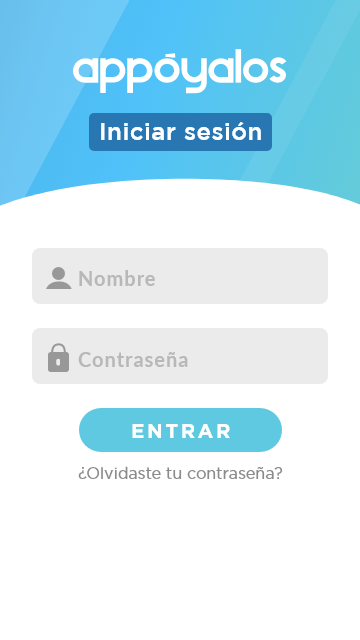
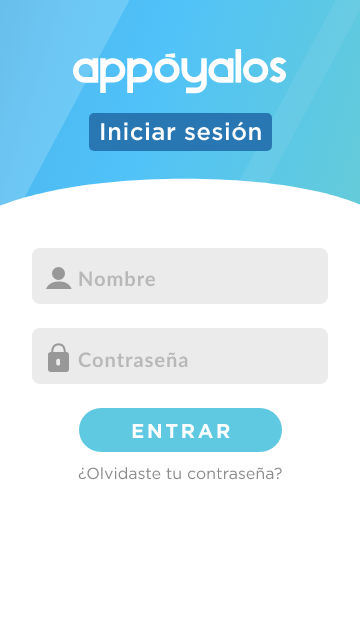
update

diff --git a/index.html b/index.html
@@ -9,6 +9,7 @@
     <link rel="stylesheet" href="css/animate.css">
     <link rel="stylesheet" href="css/bigDesktop.css">
     <link rel="stylesheet" href="css/mobile.css">
+    <link href="https://fonts.googleapis.com/css2?family=Montserrat+Alternates:wght@300&display=swap" rel="stylesheet">
     <link rel="stylesheet" href="https://stackpath.bootstrapcdn.com/bootstrap/4.5.2/css/bootstrap.min.css" integrity="sha384-JcKb8q3iqJ61gNV9KGb8thSsNjpSL0n8PARn9HuZOnIxN0hoP+VmmDGMN5t9UJ0Z" crossorigin="anonymous">
     <script defer src="https://pro.fontawesome.com/releases/v5.10.0/js/all.js" integrity="sha384-G/ZR3ntz68JZrH4pfPJyRbjW+c0+ojii5f+GYiYwldYU69A+Ejat6yIfLSxljXxD" crossorigin="anonymous"></script>
     <script src="js/index.js"></script>
@@ -25,14 +26,12 @@
             </div>
         </header>
         <nav class="nav-container">
-            <a class="nosotros">
-                <i id="we" class="we fas fa-users"></i>
-            </a>
+
             <a href="#meta" class="metas">
                 <i id="goal" class="goal fas fa-bullseye"></i>
             </a>
 
-            <a class="app">
+            <a href="#api" class="app">
                 <i id="appi" class="appi fas fa-mobile-alt"></i>
             </a>
             <a class="contacto">
@@ -49,21 +48,21 @@
                     </ol>
                     <div class="carousel-inner">
                         <div class="carousel-item active">
-                            <img src="media/Móvil Android – 3.png" id="nos_img1" class="d-block w-100" alt="...">
+                            <img src="media/paisajes-de-animales-bebes-oso-500x500.jpg" id="nos_img1" class="d-block w-100" alt="...">
                             <div class="carousel-caption d-none d-md-block">
                                 <h5>First slide label</h5>
                                 <p>Nulla vitae elit libero, a pharetra augue mollis interdum.</p>
                             </div>
                         </div>
                         <div class="carousel-item">
-                            <img src="media/Móvil Android – 9.png" id="nos_img2" class="d-block w-100" alt="...">
+                            <img src="media/Evolution_by_will_yen-500x500.png" id="nos_img2" class="d-block w-100" alt="...">
                             <div class="carousel-caption d-none d-md-block">
                                 <h5>Second slide label</h5>
                                 <p>Lorem ipsum dolor sit amet, consectetur adipiscing elit.</p>
                             </div>
                         </div>
                         <div class="carousel-item">
-                            <img src="media/Móvil Android – 7.png" id="nos_img3" class="d-block w-100" alt="...">
+                            <img src="media/pelican_500.jpg" id="nos_img3" class="d-block w-100" alt="...">
                             <div class="carousel-caption d-none d-md-block">
                                 <h5>Third slide label</h5>
                                 <p>Praesent commodo cursus magna, vel scelerisque nisl consectetur.</p>
@@ -71,7 +70,7 @@
                         </div>
                     </div>
                     <a class="carousel-control-prev" href="#carouselExampleCaptions" role="button" data-slide="prev">
-                        <span class="carousel-control-prev-icon" aria-hidden="true"></span>
+                        <span style="color: blue;" class="carousel-control-prev-icon" aria-hidden="true"></span>
                         <span class="sr-only">Previous</span>
                     </a>
                     <a class="carousel-control-next" href="#carouselExampleCaptions" role="button" data-slide="next">
@@ -104,7 +103,7 @@
                             id felis eu urna luctus gravida.Nullam varius imperdiet augue vitae tinciduntkk.augue vitae tinciduntkk elit.</p>
                     </div>
                     <div class="img3-metas" id="imgMetas">
-                        <img src="media/Móvil Android – 4.png" alt=""><br>
+                        <img src="media/Móvil Android – 1.png" alt=""><br>
                         <a id="icono3">
                             <i class="show fas fa-arrow-down" id="show3"></i><br>
                         </a>
@@ -112,8 +111,40 @@
                             id felis eu urna luctus gravida.Nullam varius imperdiet augue vitae tinciduntkk.augue vitae tinciduntkk elit.</p>
                     </div>
                 </div>
+
             </div>
-            <div class="apliacion-content">
+            <a name="api"></a>
+            <div class="aplicacion-content">
+                <div class="section1">
+                    <div class="img-section1">
+                        <img src="media/Evolution_by_will_yen-500x500.png" alt="">
+                    </div>
+                    <div class="texto-section1">
+                        <h2 class="title" style="color: white;">Proin id felis</h2>
+                        <p style="color: white;">Proin id felis eu urna luctus gravida.Nullam varius imperdiet augue vitae tinciduntkk.augue vitae tinciduntkk elit.Proin id felis eu urna luctus gravida.Nullam varius imperdiet augue vitae tinciduntkk.augue vitae tinciduntkk elit.Proin
+                            id felis eu urna luctus gravida.Nullam varius imperdiet augue vitae tinciduntkk.augue vitae tinciduntkk elit.</p>
+                    </div>
+                </div>
+                <div class="section2">
+                    <div class="texto-section2">
+                        <h2 class="title" style="color: white;">Proin id felis</h2>
+                        <p style="color: white;">Proin id felis eu urna luctus gravida.Nullam varius imperdiet augue vitae tinciduntkk.augue vitae tinciduntkk elit.Proin id felis eu urna luctus gravida.Nullam varius imperdiet augue vitae tinciduntkk.augue vitae tinciduntkk elit.Proin
+                            id felis eu urna luctus gravida.Nullam varius imperdiet augue vitae tinciduntkk.augue vitae tinciduntkk elit.</p>
+                    </div>
+                    <div class="img-section2">
+                        <img src="media/paisajes-de-animales-bebes-oso-500x500.jpg" alt="">
+                    </div>
+                </div>
+                <div class="section3">
+                    <div class="img-section3">
+                        <img src="media/pelican_500.jpg" alt="">
+                    </div>
+                    <div class="texto-section3">
+                        <h2 class="title" style="color: white;">Proin id felis</h2>
+                        <p style="color: white;">Proin id felis eu urna luctus gravida.Nullam varius imperdiet augue vitae tinciduntkk.augue vitae tinciduntkk elit.Proin id felis eu urna luctus gravida.Nullam varius imperdiet augue vitae tinciduntkk.augue vitae tinciduntkk elit.Proin
+                            id felis eu urna luctus gravida.Nullam varius imperdiet augue vitae tinciduntkk.augue vitae tinciduntkk elit.</p>
+                    </div>
+                </div>
 
             </div>
         </section>

diff --git a/css/index.css b/css/index.css
@@ -3,7 +3,7 @@
 * {
     box-sizing: border-box;
     list-style: none;
-    font-family: sans-serif;
+    font-family: 'Montserrat Alternates', sans-serif;
     text-decoration: none;
 }
 
@@ -47,7 +47,7 @@ body {
 .nav-container {
     grid-area: nav;
     display: grid;
-    grid-template-areas: 'nos met app cont';
+    grid-template-areas: 'met app cont';
     text-align: center;
     gap: 5px;
 }
@@ -101,20 +101,27 @@ body {
     font-size: 18px;
 }
 
-.nosotros-content {
-    display: grid;
+.title {
+    font-size: 40px;
+    font-weight: bolder;
 }
 
-.title {
-    color: rgb(59, 142, 209);
-    font-size: 40px;
+.nosotros-content {
+    grid-area: nos-cont;
+}
+
+.nosotros-content img {
+    max-width: 1000px;
+    height: auto;
+    margin: auto;
 }
 
 .metas-content {
     display: grid;
     grid-template-areas: 'txtmetas txtmetas txtmetas txtmetas txtmetas txtmetas'' imgs imgs imgs imgs imgs imgs ';
-    margin-top: 200px;
     text-align: center;
+    margin-top: 200px;
+    grid-area: sectionMetas;
 }
 
 .texto-metas h1 {
@@ -157,15 +164,72 @@ body {
     cursor: pointer;
 }
 
-.hide {
-    color: white;
-    font-size: 30px;
-    cursor: pointer;
-}
-
 .section-container {
     grid-area: sec;
     display: grid;
+    grid-template-areas: 'nos-cont nos-cont nos-cont nos-cont nos-cont nos-cont' 'sectionMetas sectionMetas sectionMetas sectionMetas sectionMetas sectionMetas' 'api-cont api-cont api-cont api-cont api-cont api-cont ';
+}
+
+.aplicacion-content {
+    grid-area: api-cont;
+    display: grid;
+    grid-template-areas: 'sec1 sec1 sec1 sec1 sec1 sec1' 'sec2 sec2 sec2 sec2 sec2 sec2' 'sec3 sec3  sec3  sec3  sec3  sec3 ';
+}
+
+.aplicacion-content img {
+    width: 100%;
+    height: auto;
+}
+
+.section1 {
+    grid-area: sec1;
+    background-color: rgb(59, 142, 209);
+    display: grid;
+    text-align: center;
+    grid-template-areas: 'imgSec1 imgSec1 imgSec1  txtSec1 txtSec1 txtSec1 ';
+}
+
+.img-section1 {
+    grid-area: imgSec1;
+}
+
+.texto-section1 {
+    grid-area: txtSec1;
+    margin: auto;
+}
+
+.section2 {
+    grid-area: sec2;
+    background-color: rgb(64, 169, 201);
+    display: grid;
+    text-align: center;
+    grid-template-areas: 'txtSec2 txtSec2 txtSec2 imgSec2 imgSec2 imgSec2';
+}
+
+.img-section2 {
+    grid-area: imgSec2;
+}
+
+.texto-section2 {
+    grid-area: txtSec2;
+    margin: auto;
+}
+
+.section3 {
+    grid-area: sec3;
+    background-color: rgb(59, 142, 209);
+    display: grid;
+    text-align: center;
+    grid-template-areas: 'imgSec3 imgSec3 imgSec3  txtSec3 txtSec3 txtSec3 ';
+}
+
+.img-section3 {
+    grid-area: imgSec3;
+}
+
+.texto-section3 {
+    grid-area: txtSec3;
+    margin: auto;
 }
 
 .footer-container {
@@ -189,16 +253,6 @@ body {
     color: white;
 }
 
-
-/*FinId´s---------------------------------------------------------------------------------------*/
-
-
-/*ClasesHover---------------------------------------------------------------------------------------*/
-
-.imagenes-metas img:hover {
-    transform: scale(1.02);
-}
-
 #we {
     color: white;
 }
@@ -213,6 +267,16 @@ body {
 
 #contact {
     color: white;
+}
+
+
+/*FinId´s---------------------------------------------------------------------------------------*/
+
+
+/*ClasesHover---------------------------------------------------------------------------------------*/
+
+.imagenes-metas img:hover {
+    transform: scale(1.02);
 }
 
 

diff --git a/css/mobile.css b/css/mobile.css
@@ -1,4 +1,4 @@
-@media(max-width:450px) {
+@media(max-width:650px) {
     .imagenes-metas {
         grid-template-areas: 'img1 img1'' img2 img2' 'img3 img3';
         row-gap: 100px;
@@ -20,6 +20,9 @@
     }
     .conta {
         font-size: 25px
+    }
+    .section1 {
+        grid-template-areas: 'imgSec1  txtSec1 ';
     }
     #logo {
         margin-left: 18px;
